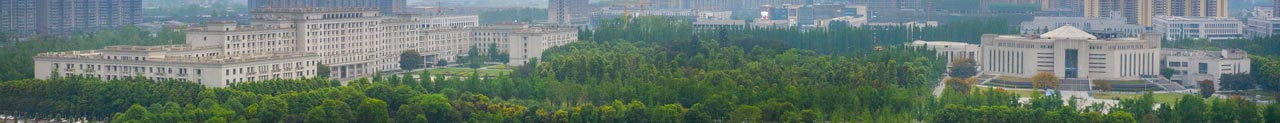
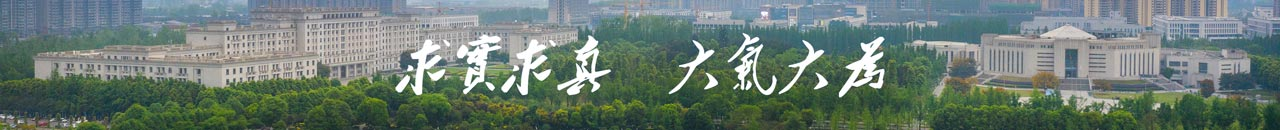
Update header image.

diff --git a/bbs/src/pages/Home/index.tsx b/bbs/src/pages/Home/index.tsx
@@ -9,14 +9,12 @@ import {
   List,
   Skeleton,
   Stack,
-  Typography,
   useMediaQuery,
   useTheme,
 } from '@mui/material'
 
 import { getIndexData } from '@/apis/common'
 import headerImg from '@/assets/header.jpg'
-import headerImgDark from '@/assets/header_dark.jpg'
 import Aside from '@/components/Aside'
 import Banner from '@/components/Banner'
 import CampusService from '@/components/Header/CampusService'
@@ -91,30 +89,7 @@ const Home = () => {
   }
   return (
     <>
-      <Banner src={theme.palette.mode == 'dark' ? headerImgDark : headerImg}>
-        <Box className="text-white text-center">
-          <Typography
-            variant="h4"
-            sx={(theme) =>
-              theme.palette.mode == 'dark'
-                ? { textShadow: 'black 0 0 8px' }
-                : {}
-            }
-          >
-            清水河畔
-          </Typography>
-          <Typography
-            color="#a5b99e"
-            sx={(theme) =>
-              theme.palette.mode == 'dark'
-                ? { textShadow: 'black 0 0 8px' }
-                : {}
-            }
-          >
-            求实求真{'　'}大气大为
-          </Typography>
-        </Box>
-      </Banner>
+      <Banner src={headerImg} />
       <Stack
         direction="row"
         justifyContent="space-between"
